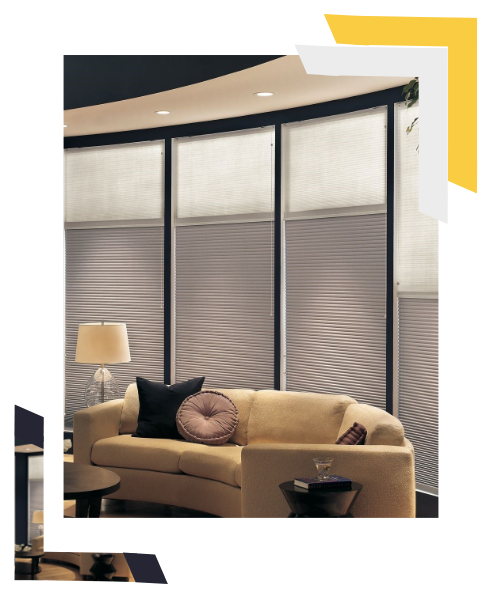
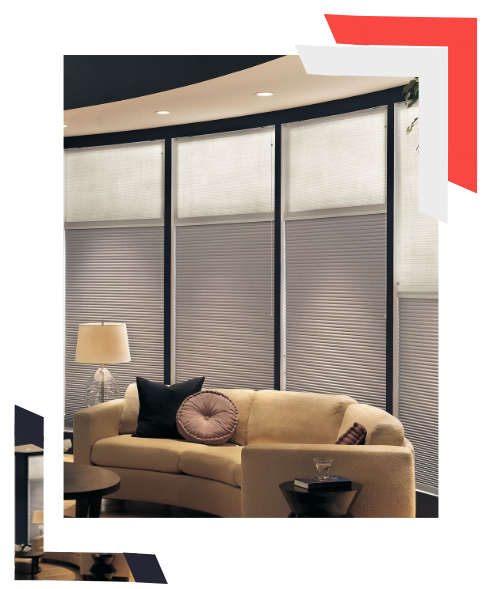
View Updated

Changed region(s): [[0.6707, 0.0, 0.9756, 0.3362]]

diff --git a/src/app/home/home.component.html b/src/app/home/home.component.html
@@ -49,7 +49,7 @@
           </div>
         </div>
         <div class="carousel-item">
-          <img src="../../assets/img/index/cr=w_1200,h_750,a_cc.png" alt="Chicago" style="width: 100% !important;">
+          <img src="../../assets/img/index/HoneCombBlinds.png" alt="Chicago" style="width: 100% !important;">
           <div class="hero__slideContent text-center">
             <h1>RAY BLINDS</h1>
             <p>Ray Blinds Inc is a Lower Mainland based local company offering Premium blinds & Shades. Fabrics and mechanisms we use for blinds are imported from renowned companies. </p>
@@ -57,7 +57,7 @@
           </div>
         </div>
         <div class="carousel-item">
-          <img src="../../assets/img/index/cr=w_1200,h_750,a_cc.png" alt="New York" style="width: 100% !important;">
+          <img src="../../assets/img/index/hero2.png" alt="New York" style="width: 100% !important;">
           <div class="hero__slideContent text-center">
             <h1>RAY BLINDS</h1>
             <p>Ray Blinds Inc is a Lower Mainland based local company offering Premium blinds & Shades. Fabrics and mechanisms we use for blinds are imported from renowned companies. </p>
@@ -96,26 +96,26 @@
       <div class="col-md-5">
         <div class="about__img text-center text-md-left mb-5 mb-md-0">
           <img class="img-fluid" src="../assets/img/about.png" alt="">
-          <a href="#/" class="about__img__date text-center">
+          <!-- <a href="#/" class="about__img__date text-center">
             <h3>6</h3>
             <p>Years <br> of Creativity</p>
-          </a>
+          </a> -->
         </div>
       </div>
       <div class="col-md-7 pl-xl-5">
         <div class="section-intro">
           <h4 class="section-intro__title">About our Company</h4>
-          <h2 class="section-intro__subtitle">Manufacturer to Customer Approach</h2>
+          <h2 class="section-intro__subtitle bottom-border">Manufacturer to Customer Approach</h2>
         </div>
-        <p>Ray Blinds – based in Lower Mainland, BC – are the premier suppliers of only the best-designed ultramodern as well as classic blinds and shades in over 10+ major cities. We offer durable pocket-friendly quality products at your convenience. Our efficient customer service, installation, and production teams work round the clock to achieve your desired degree of privacy, ambiance, & lighting.
+        <p class="description" style="text-align: left;">Ray Blinds – based in Lower Mainland, BC – are the premier suppliers of only the best-designed ultramodern as well as classic blinds and shades in over 10+ major cities. We offer durable pocket-friendly quality products at your convenience. Our efficient customer service, installation, and production teams work round the clock to achieve your desired degree of privacy, ambiance, & lighting.
         </p>
-        <p>Trust us to design timeless, classy décor for your windows, made with top-shelf fabrics & machinery imported from leading manufacturers. Our shades & shutters include energy-efficient, mechanized, cordless alternatives in addition to multi-continental, luxurious, and traditional ones to suit your sense of aesthetic. Everything, at reasonably low prices – thanks to our direct manufacturer-to-customer approach.  Our expertly stylized world-class blinds are the perfect fit and look for your home.
+        <p class="description" style="text-align: left;">Trust us to design timeless, classy décor for your windows, made with top-shelf fabrics & machinery imported from leading manufacturers. Our shades & shutters include energy-efficient, mechanized, cordless alternatives in addition to multi-continental, luxurious, and traditional ones to suit your sense of aesthetic. Everything, at reasonably low prices – thanks to our direct manufacturer-to-customer approach.  Our expertly stylized world-class blinds are the perfect fit and look for your home.
         </p>
       </div>
     </div>
   </div>
 </section>
-<section class="overview">
+<!-- <section class="overview">
   <div class="container">
     <div class="row" style="justify-content: space-between;">
       <div class="col-sm-6 col-lg-4 col-xl-3 mb-4 mb-xl-0">
@@ -162,21 +162,21 @@
       </div>
     </div>
   </div>
-</section>
+</section> -->
 <br>
 <br>
 
 <section class="portfolio section-margin">
   <div class="container">
     <div class="section-intro">
-      <h4 class="section-intro__title">OUR PORTFOLIO</h4>
-      <h2 class="section-intro__subtitle bottom-border">Latest Completed Projects</h2>
+      <h4 class="section-intro__title">OUR PRODUCTS</h4>
+      <h2 class="section-intro__subtitle bottom-border">Catalogue Of Products</h2>
     </div>
 
     <div class="row align-items-end pb-md-5 mb-4">
       <div class="col-md-7 mb-4 mb-md-0">
         <div class="portfolio__img">
-          <img class="img-fluid" src="../../assets/img/653/Real Wood Blinds.png" alt="">
+          <img class="img-fluid" src="../../assets/img/653/Roller Blinds.png" alt="">
         </div>
       </div>
       <div class="col-md-5 mb-5 pl-xl-5">
@@ -242,10 +242,59 @@
         </div>
       </div>
     </div>
-
+    <!-- <div style="width: 100%; text-align: center;">
+      <a class="btn btn--rightBorder btn--leftBorder mt-3">
+        Show More
+      </a>
+    </div> -->
   </div>
 </section>
+<section class="portfolio section-margin">
+  <div class="container">
+    <div class="section-intro">
+      <h4 class="section-intro__title">OUR PORTFOLIO</h4>
+      <h2 class="section-intro__subtitle bottom-border">Latest Completed Projects</h2>
+    </div>
+    <div id="demo2" class="carousel slide" data-ride="carousel">
 
+      <!-- Indicators -->
+      <ul class="carousel-indicators">
+        <li data-target="#demo2" data-slide-to="0" class="active"></li>
+        <li data-target="#demo2" data-slide-to="1"></li>
+        <li data-target="#demo2" data-slide-to="2"></li>
+      </ul>
+
+      <!-- The slideshow -->
+      <div class="carousel-inner">
+        <div class="carousel-item active">
+          <img src="../../assets/img/Images/proj1.jpeg" alt="Los Angeles" style="width: 100% !important;">
+
+        </div>
+        <div class="carousel-item">
+          <img src="../../assets/img/Images/proj2.jpeg" alt="Chicago" style="width: 100% !important;">
+
+        </div>
+        <div class="carousel-item">
+          <img src="../../assets/img/Images/proj3.jpeg" alt="New York" style="width: 100% !important;">
+
+        </div>
+        <div class="carousel-item">
+          <img src="../../assets/img/Images/proj-4.jpeg" alt="New York" style="width: 100% !important;">
+
+        </div>
+      </div>
+
+      <!-- Left and right controls -->
+      <a class="carousel-control-prev" href="#demo2" data-slide="prev">
+        <span class="carousel-control-prev-icon"></span>
+      </a>
+      <a class="carousel-control-next" href="#demo2" data-slide="next">
+        <span class="carousel-control-next-icon"></span>
+      </a>
+
+    </div>
+</div>
+</section>
 <section class="tips tips-bg">
   <div class="container">
     <div class="row align-items-center">
@@ -259,39 +308,38 @@
     </div>
   </div>
 </section>
-<!-- <section class="testimonial section-margin">
+<section class="testimonial section-margin">
+
   <div class="container">
     <div class="section-intro">
       <h4 class="section-intro__title">OUR Testimonial</h4>
       <h2 class="section-intro__subtitle bottom-border">What People Say About Us</h2>
     </div>
 
-    <div class="owl-carousel owl-theme testimonialCarousel" style="display: flex;">
-      <div class="item">
+    <div class="row" style="display: flex;">
+      <div class="col-md-6">
         <div class="media testimonial__slide">
-          <img class="img-fluid mr-4" src="../assets/img/testimonial.png" width="120" height="125" alt="">
+          <img class="img-fluid mr-4 test-img" src="../assets/img/testimonial.png"  alt="">
           <div class="media-body">
             <blockquote>
-              “If you are looking at blank cassettes on the web lorem ipsum dolor sit amet, consectetur adipisicing elit, sed do eiusmod tempor incididunt amet.”
+              “Ray Blinds were great! We received an estimate visit and a quote within a week of contacting them. The installation was quick, and they've checked in with us to make sure we liked the final product. Great, timely communication, affordable pricing.”
             </blockquote>
-            <h3>Falcon Astle</h3>
-            <p>Google Android</p>
+            <h3 style="color: #262533;">Anna McRae</h3>
           </div>
         </div>
       </div>
-      <div class="item">
+      <div class="col-md-6">
         <div class="media testimonial__slide">
-          <img class="img-fluid mr-4" src="../assets/img/testimonial.png" width="120" height="125" alt="">
+          <img class="img-fluid mr-4 test-img" src="../assets/img/testimonial.png"  alt="">
           <div class="media-body">
             <blockquote>
-              “If you are looking at blank cassettes on the web lorem ipsum dolor sit amet, consectetur adipisicing elit, sed do eiusmod tempor incididunt amet.”
+              “I had my zebra blinds installed very impressive and satisfied the service is superb and will definitely recommend to anyone”
             </blockquote>
-            <h3>Falcon Astle</h3>
-            <p>Google Android</p>
+            <h3 style="color: #262533;">Milisa Ang</h3>
           </div>
         </div>
       </div>
 
     </div>
   </div>
-</section> -->
+</section>

diff --git a/src/app/estimate/estimate.component.ts b/src/app/estimate/estimate.component.ts
@@ -8,6 +8,17 @@ import * as $ from 'jquery';
   styleUrls: ['./estimate.component.scss']
 })
 export class EstimateComponent implements OnInit, AfterViewInit {
+  products: Array<any> = [
+    {id: 'VerticalBlind', name: 'Vertical Blind', content: 'Vertical Blinds are the best choice for your ultramodern sliding glass doors, floor-to-ceiling glass walls, and large windows. Drape them with our sleek vertical blinds and turn them into the center of attraction. We offer well over 60 fabric and 20 PVC options for you to choose from.', img : '../../assets/img/457/Vertical blinds.png'},
+    {id: 'FauxWoodBlinds' , name: 'Faux Wood Blinds', content: 'We offer the widest range of sophisticated, kid-friendly, and easy-to-clean faux wood blinds. Bring home high-end cordless moisture-resistant blinds, recommended especially for your bathroom and kitchen windows. If you seek the rich look of real wood at a small price tag, Ray’s Faux Wood Blinds are here offering premium durability and privacy for your home. Great quality, smooth finishing, and a classic appeal – at an affordable, budget-friendly rate!', img: '../../assets/img/457/Faux Wood.png'},
+     {id: 'AluminumBlinds', name: 'Aluminum Blinds', content: 'Packaged together with robust aluminum slats, matching cords, and the most indefectible working parts, Ray’s Mini-Blinds or Aluminum Blinds are the optimal choices of classy, durable, and economical shades for all your walls and windows, perfected to accentuate your style.', img: '../../assets/img/457/Aluminium Blinds.png'},
+     {id: 'Zebrablinds', name: 'Zebra blinds', content: 'Our uniquely designed Zebra Blinds offer the ultimate control over decor, privacy, light, and style. Create a desirable amount of ambiance whilst maintaining privacy. Give your home that sleek contemporary look you love. A perfect choice for your living room, bedroom, and study.', img: '../../assets/img/457/Zebra Blinds.png'},
+     {id: 'RollerBlinds', name: 'Roller Blinds', content: 'Roller blinds are extremely easy to clean and conveniently operable utility shades. Bring home the finest top-end modern functional blinds that can either block out or filter sunlight entering your home, depending on the fabric you select. In any case, we offer sun-fade protection for your furniture and flooring. Choose privacy; choose the class. Choose Ray’s Roller Blinds!', img: '../../assets/img/457/Roller Blinds.png'},
+     {id: 'HoneycombBlinds', name: 'Honeycomb Blinds', content: 'Cellular Shades or Honeycomb Blinds are the perfect futuristic energy-efficient décor for your windows. Ray’s Honeycomb Blinds are the one-stop modern solution for all your privacy and environmental concerns. These cellular shades cut power costs by saving energy. They trap air to insulate your home against heat and cold. If you seek optimal light control, choose today from our custom range of light filtering or blackout fabrics for your cellular shades!', img: '../../assets/img/457/Day Night Honeycomb Blinds.png'},
+     {id: 'RealWoodBlinds', name: 'Real Wood Blinds', content: 'Bring the beauty, richness, and sophistication of nature into your house with our top-shelf Real Wood Blinds. Find the right shade, stain, texture, and color to satiate your aesthetic from our premium range of durable and timeless blinds, crafted with perfection from real hardwood.', img: '../../assets/img/457/Real Wood Blinds.png'},
+     {id: 'ShangriLaBlinds', name: 'Shangri-La Blinds', content: 'Add an eastern touch to your house with elegant Shangri La Blinds made from lightweight top-tier sheer fabric. These modern horizontal shades are child-safe. You can raise them with the vanes open and close them fully or partially. Ray’s luxurious range of Shangri La Blinds is built from fine soft fabric that allows mild sunlight filtering to create an aesthetically pleasing and practically ambient home atmosphere while ensuring your privacy.', img: '../../assets/img/457/d.png'},
+     {id: 'DayNightHoneycombBlinds', name: 'Day-Night Honeycomb Blinds', content: ' Block out the light, darken your rooms, and take a long peaceful nap or enjoy your day with mild natural sunlight + protection from harsh UV rays – own the luxury you deserve with Ray’s premium multifunctional Day-Night Honeycomb Blinds. These modern flexible cellular shades are environment-friendly cordless alternatives for when you need to switch between light filtering and room darkening. Custom-tailored with only the best fabrics for all your comfort and privacy needs!', img: '../../assets/img/457/Day Night Honeycomb Blinds.png'},
+  ];
   estimateData: Array<any> = [{
     room: '',
     quantity: '',

diff --git a/src/themes/_btn.scss b/src/themes/_btn.scss
@@ -73,30 +73,30 @@
 
 	// dark btn
 	&-dark {
-		background: $charade;
-		border-color: $charade;
-		color: $primary-color;
+		background: $primary-color;
+		border-color: $primary-color;
+		color: $white;
 		padding: .7rem 1.4rem;
 
 		&.btn--rightBorder:after {
-			background: $charade;
+			background: $primary-color;
 		}
 
 		&.btn--leftBorder:before {
-			background: $charade;
+			background: $primary-color;
 		}
 
 		&:hover {
-			background: $charade;
+			background: $white;
 			color: $primary-color;
-			border-color: $charade;
+			border-color: $white;
 
 			&.btn--rightBorder:after {
-				background: $charade;
+				background: $white;
 			}
 
 			&.btn--rightBorder:before {
-				background: $charade;
+				background: $white;
 			}
 		}
 	}

diff --git a/src/themes/_breadcrumb.scss b/src/themes/_breadcrumb.scss
@@ -7,12 +7,14 @@
 	}
 
 	.btn {
-		background: $primary-color;
-		border-color: $primary-color;
-		color: $black;
+		background: transparent;
+		border-color: transparent;
+    color: $white;
+    font-size: 15px;
+    transform: translateX(-20px);
 
 		&.btn--rightBorder:after {
-			background: $primary-color;
+			background: transparent;
 			right: -1.5rem;
 		}
 
@@ -32,5 +34,14 @@
 		&:not(:first-child) {
 			padding-left: 0;
 		}
-	}
+  }
+  .btn:hover {
+    background: transparent;
+    border-color: transparent;
+    color: $primary-color;
+  }
+  .btn--rightBorder:hover {
+    background-color: transparent;
+    border-color: transparent;
+  }
 }

diff --git a/src/app/estimate/estimate.component.html b/src/app/estimate/estimate.component.html
@@ -37,7 +37,7 @@
     <h2 class="section-intro__subtitle" style="color: white !important;">Cost Estimate</h2>
     <div class="btn-group breadcrumb">
       <a  routerLink="/" class="btn">Home</a>
-      <span class="btn btn--rightBorder">Estimate</span>
+      <span class="btn ">Estimate</span>
     </div>
   </div>
 </header>
@@ -114,7 +114,7 @@
       <td>
         <select class="tableInput">
           <option disabled selected>Select </option>
-          <option value="bind 1"> Blind 1</option>
+          <option *ngFor="let item of products" [value] = 'item.name'> {{ item.name }}</option>
         </select>
       </td>
     </tr>

diff --git a/src/themes/_tips.scss b/src/themes/_tips.scss
@@ -1,22 +1,22 @@
 .tips {
 	&-bg {
-		background: $primary-color;
+		background: $charade;
 		padding: 90px 0;
 
 		.section-intro__subtitle {
 			margin-bottom: 20px;
-			color: $charade;
+			color: $primary-color;
 		}
 
 		p {
 			margin-bottom: 0;
-			color: $charade;
+			color: $primary-color;
 		}
 	}
 	.btn {
 		&:hover {
 			background: transparent;
-			color: $charade;
+			color: $white;
 		}
 	}
 }

diff --git a/src/app/home/home.component.scss b/src/app/home/home.component.scss
@@ -17,8 +17,11 @@
   max-width: 600px !important;
 }
 @media screen and (max-width: 740px) {
- .section-intro__subtitle {
+ .section-intro__subtitle.small {
    text-align: center;
+ }
+ .section-intro__subtitle {
+   font-size: 32px;
  }
  .description  {
    text-align: center;
@@ -38,6 +41,9 @@
  }
  .car-item {
    display: none;
+ }
+ .test-img {
+   width: 55px;
  }
 }
 

diff --git a/src/app/product-catalogue/product-catalogue.component.html b/src/app/product-catalogue/product-catalogue.component.html
@@ -37,7 +37,7 @@
     <h2 class="section-intro__subtitle" style="color: white !important;">Our Products</h2>
     <div class="btn-group breadcrumb">
       <a routerLink="/" class="btn">Home</a>
-      <span class="btn btn--rightBorder">Products</span>
+      <span class="btn ">Products</span>
     </div>
   </div>
 </header>

diff --git a/src/app/gallery/gallery.component.html b/src/app/gallery/gallery.component.html
@@ -38,7 +38,7 @@
       <a routerLink="/" class="btn">Home</a>
       <a routerLink="/products" class="btn">Products</a>
       <a (click) = "back()"class="btn">Product-Detail</a>
-      <span class="btn btn--rightBorder">Images</span>
+      <span class="btn ">Images</span>
     </div>
   </div>
 </header>

diff --git a/src/app/automatic/automatic.component.html b/src/app/automatic/automatic.component.html
@@ -37,7 +37,7 @@
     <div class="btn-group breadcrumb">
       <a routerLink="/" class="btn">Home</a>
       <a routerLink="/products" class="btn">Products</a>
-      <span class="btn btn--rightBorder">Product-Detail</span>
+      <span class="btn ">Product-Detail</span>
     </div>
   </div>
 </header>

diff --git a/src/app/product-details/product-details.component.html b/src/app/product-details/product-details.component.html
@@ -37,7 +37,7 @@
     <div class="btn-group breadcrumb">
       <a routerLink="/" class="btn">Home</a>
       <a routerLink="/products" class="btn">Products</a>
-      <span class="btn btn--rightBorder">Product-Detail</span>
+      <span class="btn ">Product-Detail</span>
     </div>
   </div>
 </header>

diff --git a/src/themes/_variables.scss b/src/themes/_variables.scss
@@ -1,6 +1,7 @@
 $bodyBg:#ECECEC;
 $text-color: #8f8f8f;
-$primary-color: #F9CC41;
+// $primary-color: #F9CC41;
 $white: #fff;
 $black: #000000;
 $charade: #262533;
+$primary-color: #f94741;
